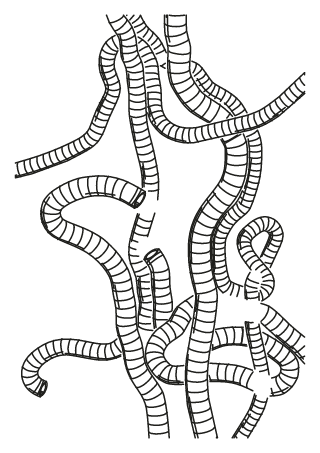
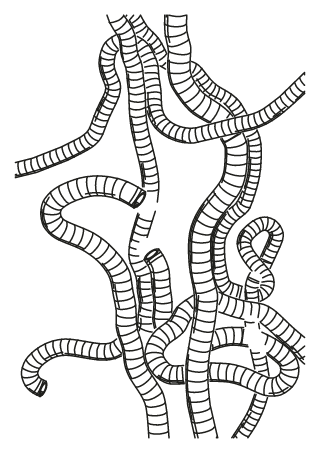
Tangles: humanise the geometry, not the strokes — kills halo breakage
The previous commit fixed the X-ray class but the plots still showed
obvious discontinuous lines around every reserved gap: the hand finish
ran per-stroke AFTER occlusion, so each gap was pre-widened by the
worst-case wobble budget (inflate ~2px at default wobble) and then every
stroke drifted independently (decorrelated wobble + whole-stroke
misregistration) - terminations that should align along an occlusion
boundary scattered, rings detached from their edges, and shallow hugs
read as broken dashes. Verified directly: the same scene at wobble 0
rendered clean while default wobble reproduced every reported break.

Now most of the wobble budget is stamped into the CENTERLINES before
crossings, marks, and occlusion (low-frequency perpendicular fbm plus a
whole-strand misregistration offset, curvature re-clamped), so edges,
rings, shade, crossings, and occluders all share one distortion. The
hand pass keeps only a small residual per-stroke texture (0.3x wobble,
no jitter, displacement hard-capped), and the occluders inflate by just
that residual: halos drop from ~3.2px to ~1.9px and every termination
lands on the boundary it was cut by.

Goldens, web module golden, and the tangles preview regenerated after
side-by-side eyeballing (default/lace/cuffs/fat x seeds): rings span
edge to edge, tucks read as tight slivers, no dangling ring ladders.

Claude-Session: https://claude.ai/code/session_019uym1WFqNtq4VCysXkSjLK

Changed region(s): [[0.0312, 0.0309, 0.9688, 0.989]]

diff --git a/packages/core/src/tangles/index.ts b/packages/core/src/tangles/index.ts
@@ -144,13 +144,21 @@ export function buildTangleScene(options: TanglesOptions): {
   const radiusMax = Math.max(radiusMin, o.radiusMax * matScale);
   const gap = Math.max(o.gap, 0.9 * o.penWidth);
 
-  // The occlusion margin must cover the finish pass's peak displacement
-  // (wobble amplitude + whole-stroke misregistration), or the hand pass
-  // bends erased strokes back into the reserved gaps. The 0.7 base covers
-  // the pen's own half-width; anything more is pure moat — the halo must
-  // read as a held-off sliver, not a channel.
+  // Humanisation is split in two. Most of the wobble budget is applied to
+  // the CENTERLINES, before crossings, marks, and occlusion, so every mark
+  // of a strand and every occlusion boundary shares one distortion — a
+  // per-stroke wobble after occlusion scatters the terminations at every
+  // reserved gap (each stroke drifts on its own noise track) and the gaps
+  // read as broken lines, the worst "haloing" artifact this module can
+  // produce. A small residual per-stroke wobble keeps the pen texture, and
+  // ONLY that residual inflates the occluders: the 0.7 base covers the
+  // pen's own half-width; anything more is pure moat — the halo must read
+  // as a held-off sliver, not a channel.
+  const geomWobble = o.wobble * 1.1;
+  const strokeWobble = o.wobble * 0.3;
   const finishReach = o.wobble * 1.6;
-  const inflatePx = 0.7 + finishReach;
+  const strokeReach = strokeWobble * 1.5;
+  const inflatePx = 0.7 + strokeReach;
 
   // 1. Grow the centerlines, then relax parallel hoses apart. The pushes can
   // locally re-tighten a bend past the growth cap, so re-clamp and smooth
@@ -195,9 +203,40 @@ export function buildTangleScene(options: TanglesOptions): {
   // Resample to uniform spacing (the pushes compress vertices into
   // micro-segments whose spike angles carry huge curvature), then enforce
   // the cap exactly by turn redistribution.
+  const geomNoise = createNoise(subSeed(seed, 8));
   const strands: TangleStrand[] = grown.map((g, k) => {
     const resampled = resampleUniform(paths[k], clamp(g.r / 3, 2, 6));
     enforceCurvature(resampled, kappaMaxFor(o.material, g.r));
+    // The geometry share of the humanisation: a low-frequency perpendicular
+    // wobble plus a small whole-strand misregistration offset, stamped into
+    // the centerline itself so edges, rings, shade, crossings, and
+    // occluders all agree on it. Re-clamp curvature afterwards — the
+    // wobble adds a little bend everywhere.
+    if (geomWobble > 0) {
+      const track = k * 0.731 + 0.5;
+      const offX = 0.5 * o.wobble * geomNoise.noise2D(track, 31.7);
+      const offY = 0.5 * o.wobble * geomNoise.noise2D(track, 47.3);
+      let arc = 0;
+      for (let i = 0; i < resampled.length; i++) {
+        if (i > 0) {
+          arc += Math.hypot(
+            resampled[i].x - resampled[i - 1].x,
+            resampled[i].y - resampled[i - 1].y
+          );
+        }
+        const ahead = resampled[Math.min(i + 1, resampled.length - 1)];
+        const behind = resampled[Math.max(i - 1, 0)];
+        const tx = ahead.x - behind.x;
+        const ty = ahead.y - behind.y;
+        const tl = Math.hypot(tx, ty) || 1;
+        const w = geomWobble * geomNoise.fbm(arc / 46, track, 2, 0.5, 2.2);
+        resampled[i] = {
+          x: resampled[i].x + offX + (-ty / tl) * w,
+          y: resampled[i].y + offY + (tx / tl) * w,
+        };
+      }
+      enforceCurvature(resampled, kappaMaxFor(o.material, g.r));
+    }
     return finalizeOpen(smoothPolyline(resampled, 1), g.r);
   });
 
@@ -289,18 +328,22 @@ export function generateTangles(options: TanglesOptions): FlowLinesResult {
   // 5. Plain stroked polylines, layer-tagged for multi-pen export.
   const lines: FlowLine[] = marks.map((m) => ({ points: m.points, layer: m.layer }));
 
-  // 6. Hand finish, then clip and reorder. Occlusion ran before the wobble
-  // and every reserved gap was inflated by the finish pass's reach — and
-  // that budget is enforced: wobble plus misregistration can statistically
-  // exceed it, so the finish is capped at exactly the inflated reach or
-  // the tail of the noise bends erased ink back into the reserved gaps.
+  // 6. Residual hand finish, then clip and reorder. The bulk of the wobble
+  // is already in the centerlines (see buildTangleScene) where occlusion
+  // could account for it exactly; this pass only adds per-stroke pen
+  // texture, so its amplitude is small, its jitter is off (whole-stroke
+  // misregistration detaches rings from their edges — the strand-level
+  // offset happened in geometry), and its displacement is hard-capped at
+  // the reach the occluders were inflated by.
+  const strokeWobble = o.wobble * 0.3;
   const finished = applyHandDrawnStyle(
     { lines, width, height, seed },
     {
-      amplitude: o.wobble,
+      amplitude: strokeWobble,
       wavelength: 42,
+      jitter: 0,
       seed: subSeed(seed, 6),
-      maxDisplacement: o.wobble * 1.6,
+      maxDisplacement: strokeWobble * 1.5,
     }
   ).lines.flatMap((l) =>
     clipPolylineToRect(l.points, x0, y0, x1, y1).map((pts) => ({ ...l, points: pts }))
